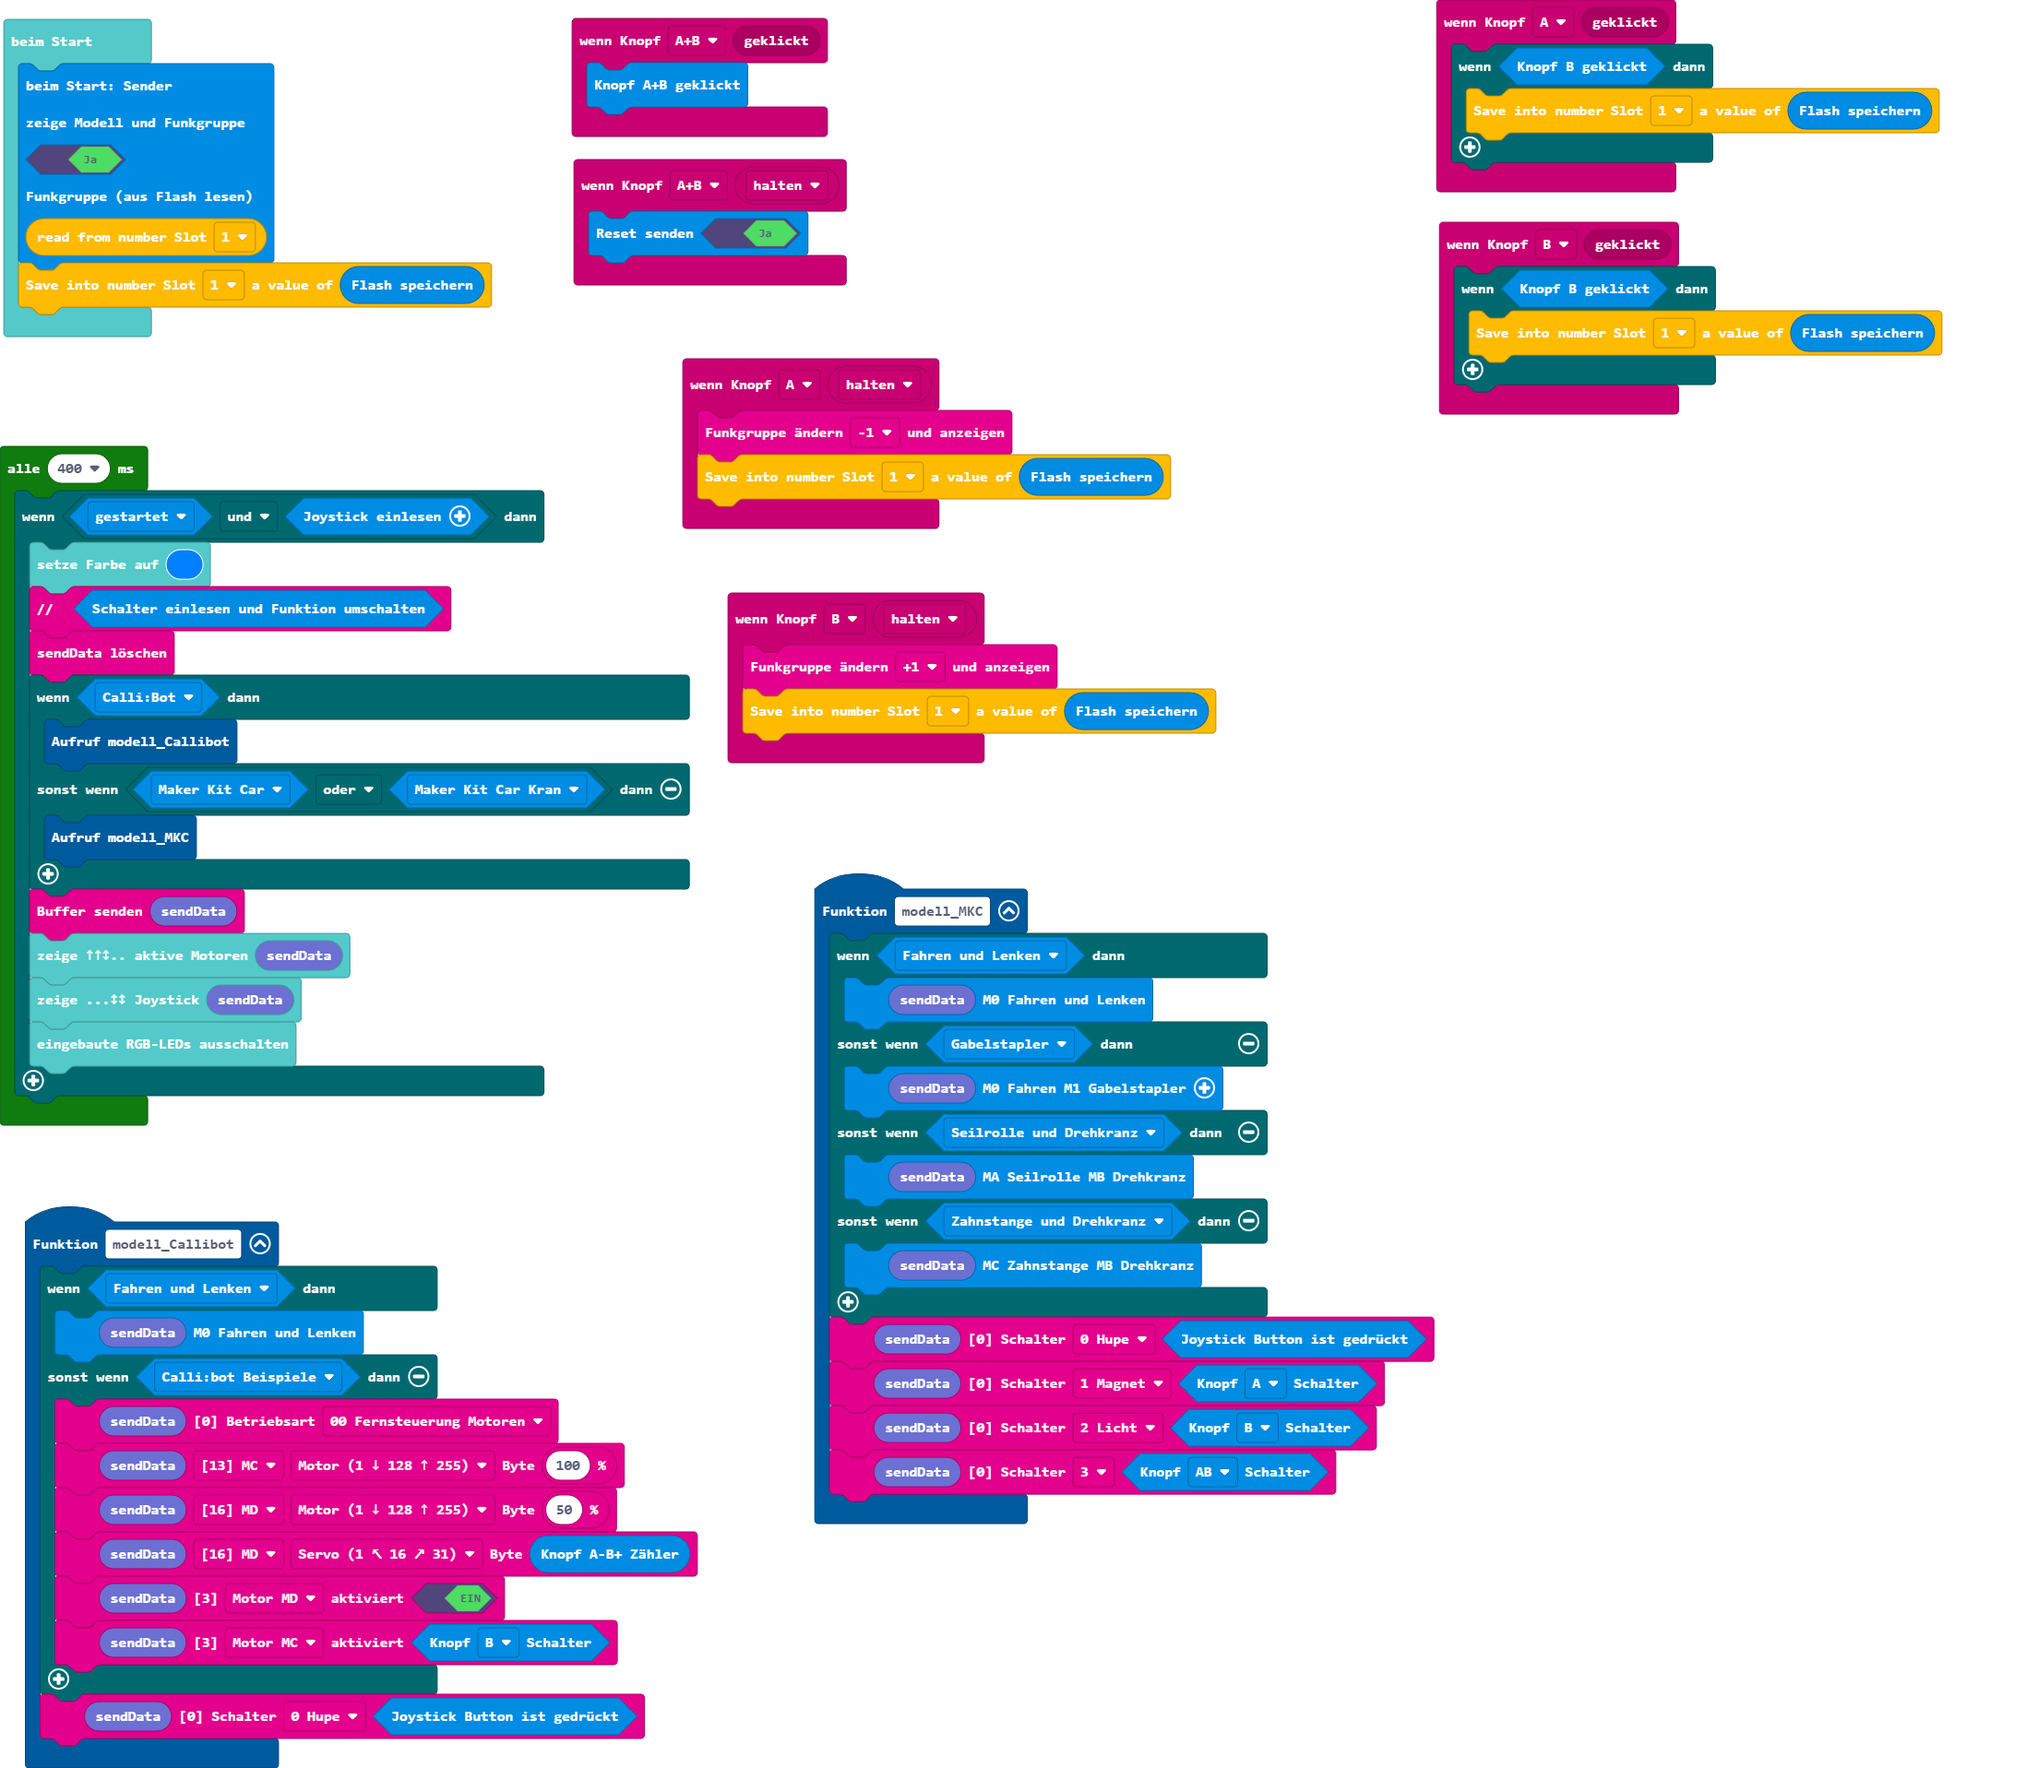
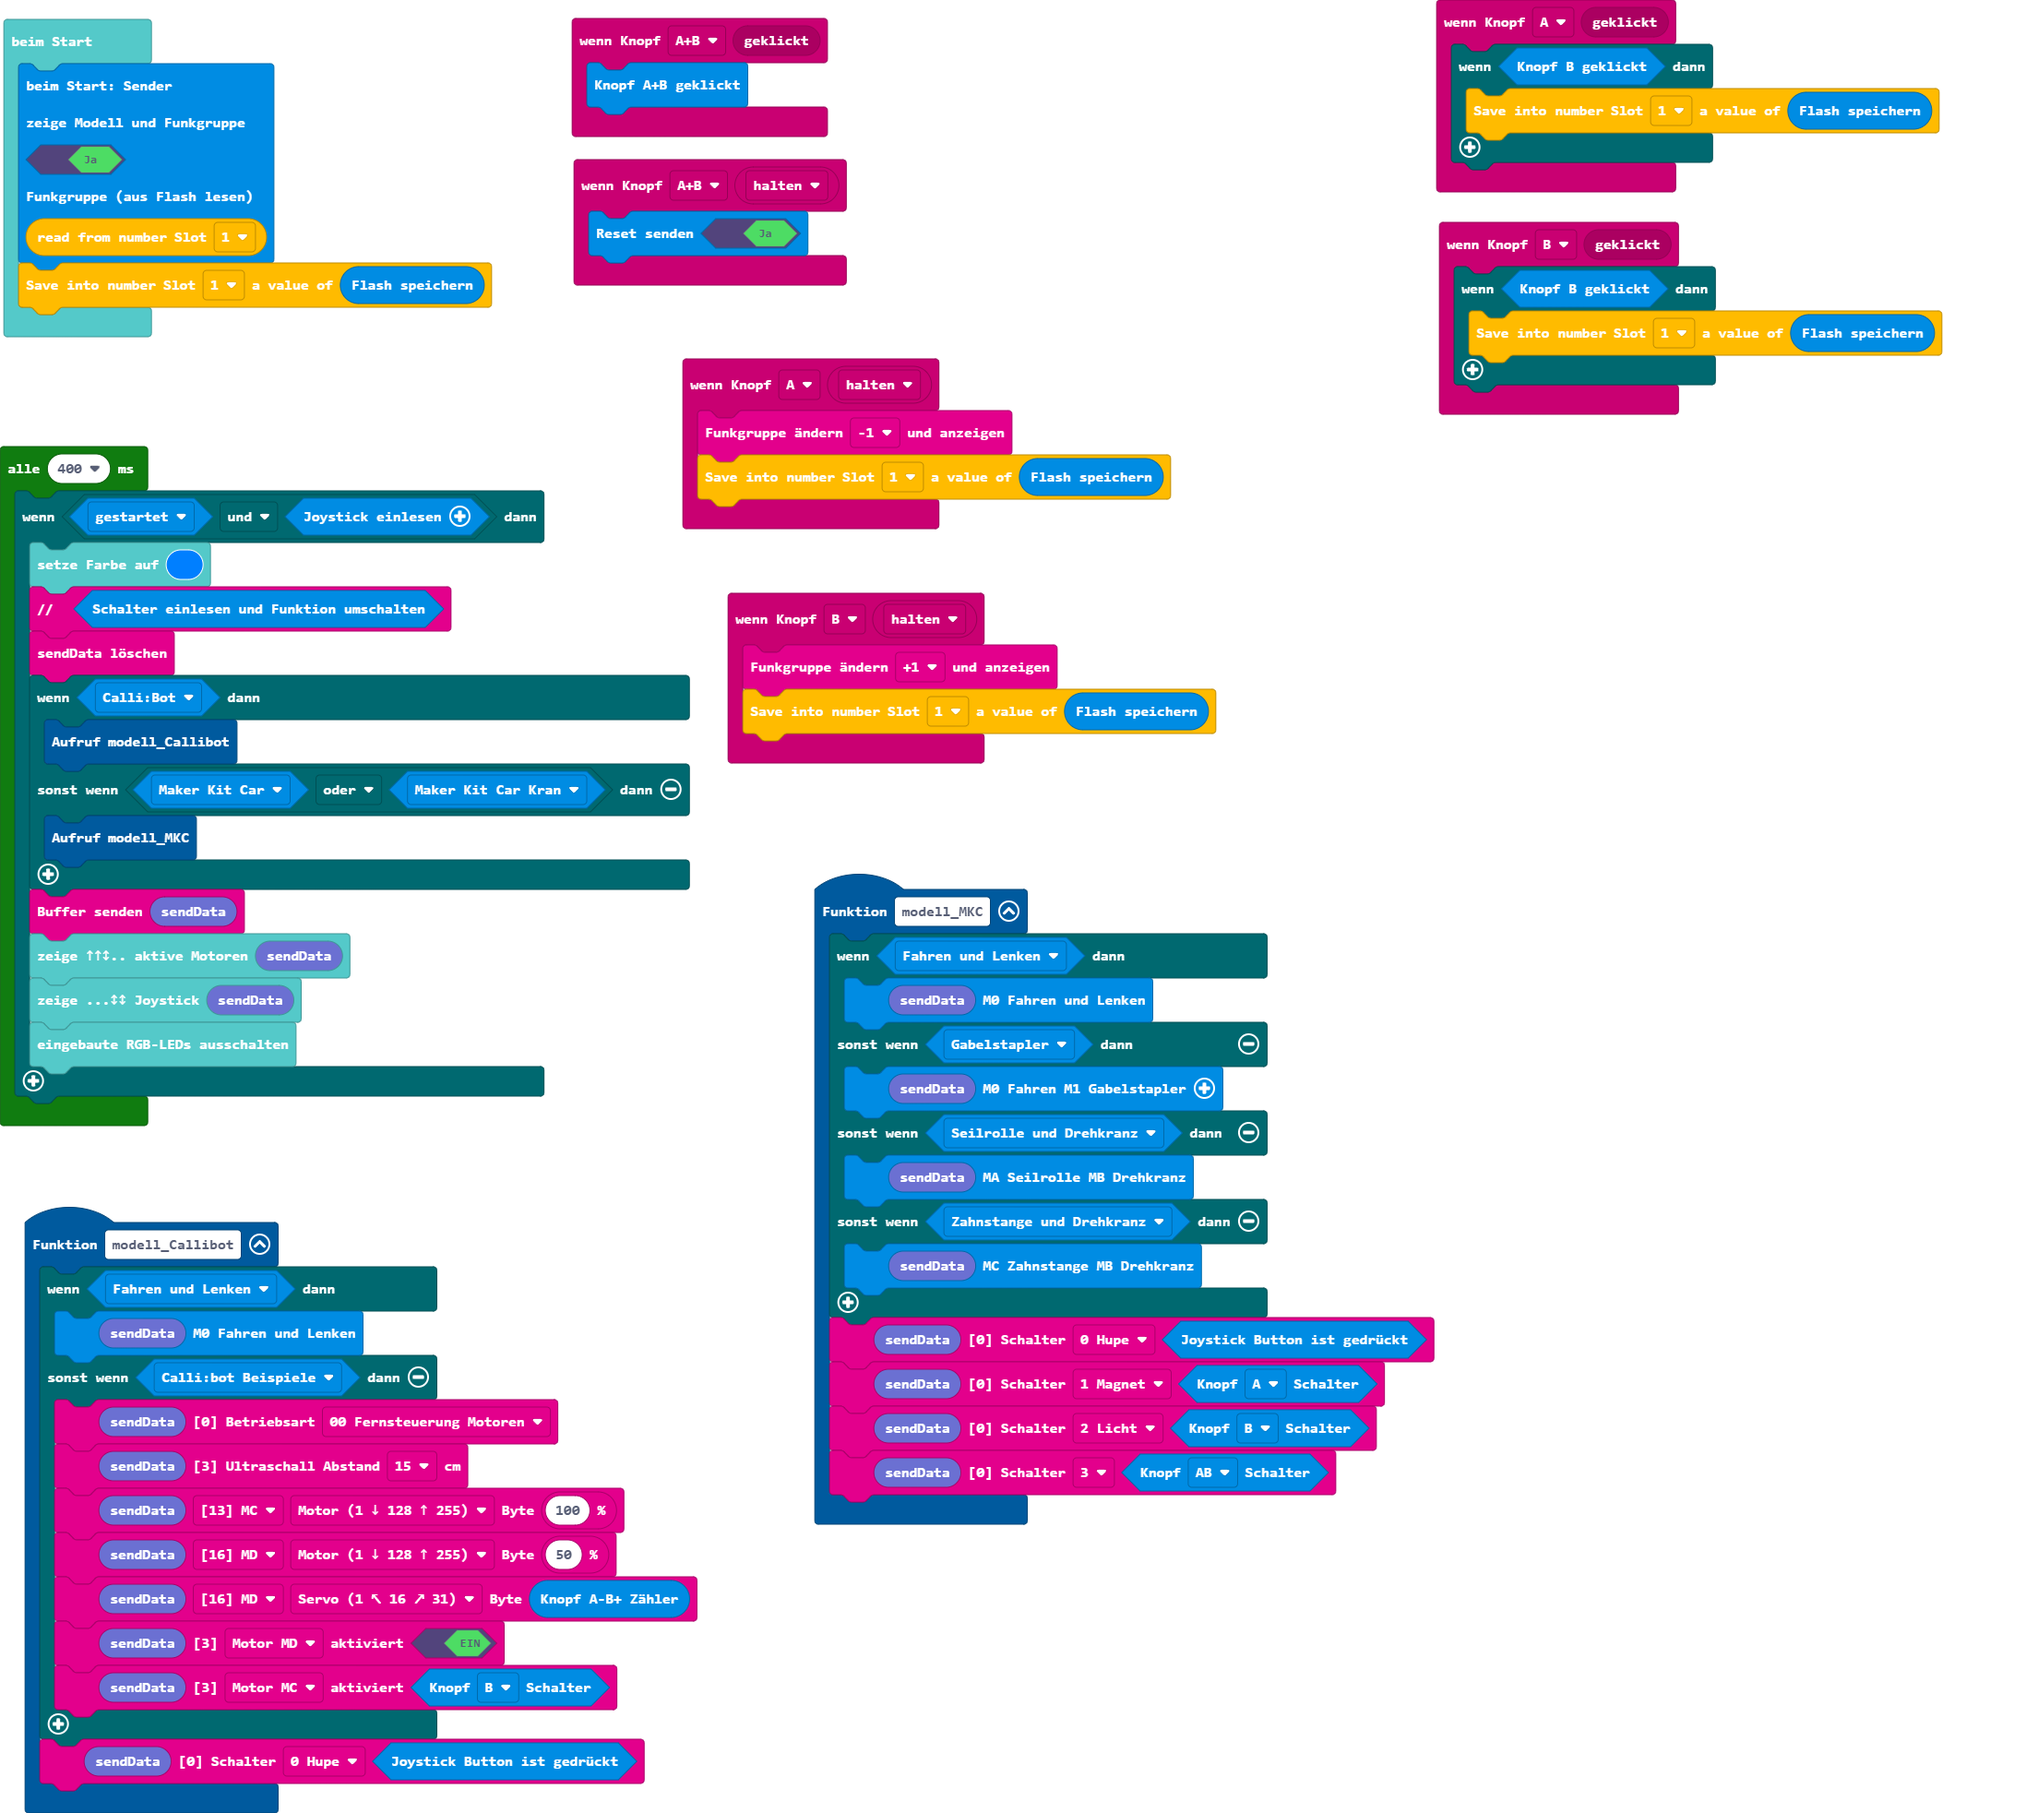
Aktualisiere main.blocks, main.ts

diff --git a/main.ts b/main.ts
@@ -3,6 +3,7 @@ function modell_Callibot () {
         sender.sendM0(radio.radio_sendBuffer19())
     } else if (sender.isFunktion(sender.eFunktion.mc_md_callibot_beispiele)) {
         radio.setBetriebsart(radio.radio_sendBuffer19(), radio.e0Betriebsart.p0)
+        radio.setAbstand(radio.radio_sendBuffer19(), radio.e3Abstand.u1)
         radio.setByte(radio.radio_sendBuffer19(), radio.eBufferPointer.mc, radio.eBufferOffset.b0_Motor, radio.speedPicker(100))
         radio.setByte(radio.radio_sendBuffer19(), radio.eBufferPointer.md, radio.eBufferOffset.b0_Motor, radio.speedPicker(50))
         radio.setByte(radio.radio_sendBuffer19(), radio.eBufferPointer.md, radio.eBufferOffset.b1_Servo, sender.getButtonAB_Counter())
